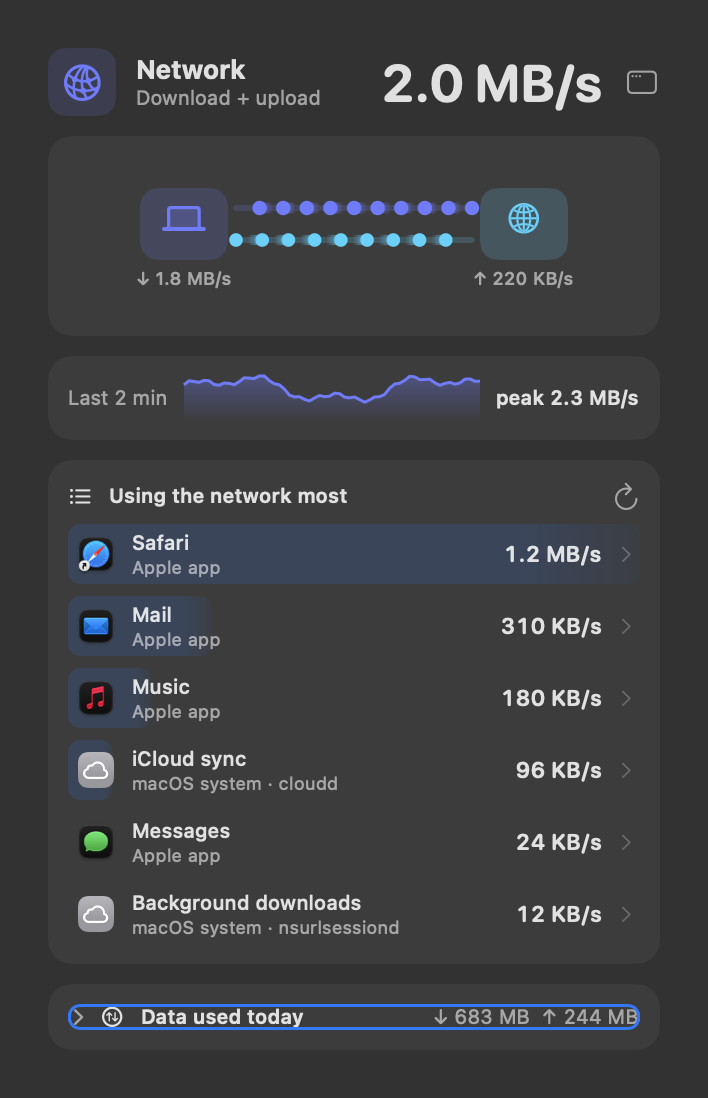
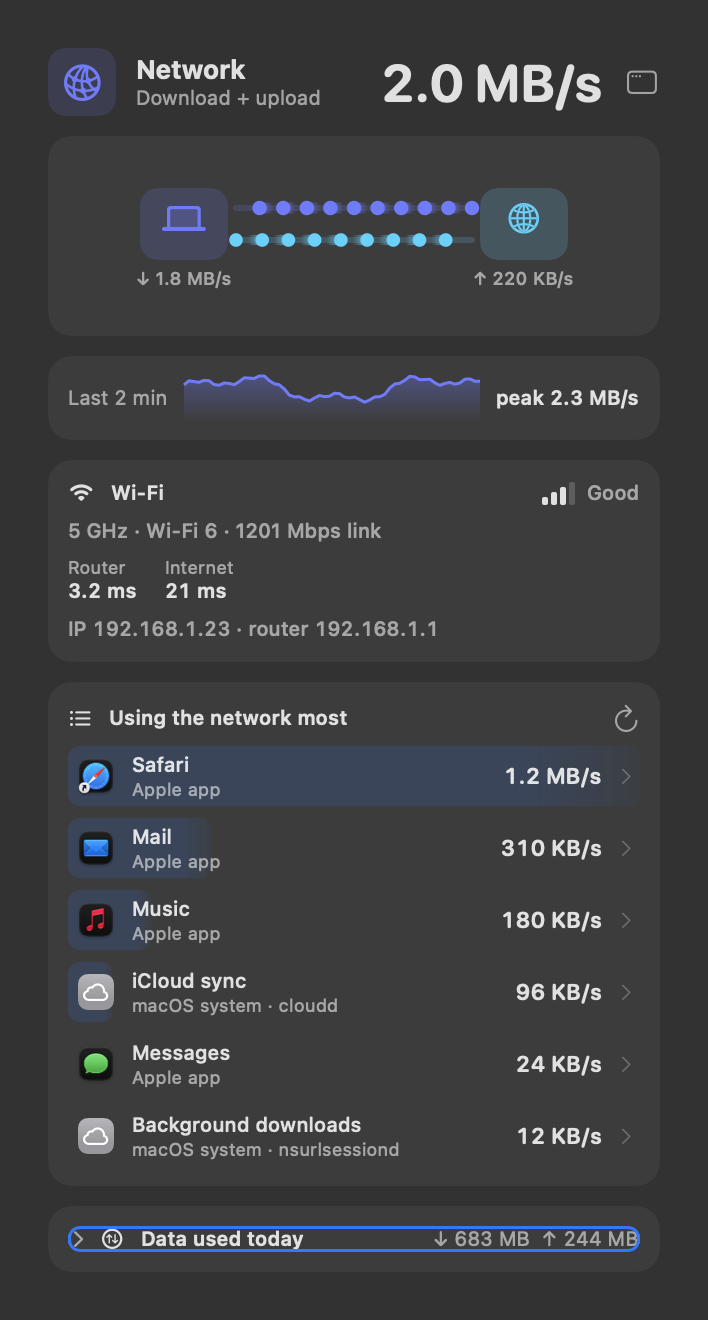
Sparewatt 1.18: changelog; Connection and internet check (Network section, notifications, feature index, panel guide); What Sparewatt runs and reads regenerated (both pings); Connection close-up and Network panel from demo renders

diff --git a/features/03 Temperature, network and storage space.md b/features/03 Temperature, network and storage space.md
@@ -47,7 +47,7 @@
 
 ## Network
 
-<p align="center"><img src="../images/features/panel-network.png" width="320" alt="Network"><br><em>Network panel: total speed · download and upload flow · 2-minute peak · apps using the network most · data used today.</em></p>
+<p align="center"><img src="../images/features/panel-network.png" width="320" alt="Network"><br><em>Network panel: total speed · download and upload flow · 2-minute peak · the connection · apps using the network most · data used today.</em></p>
 
 **Purpose.** See how much the Mac is downloading and uploading, and which app is doing it.
 
@@ -62,6 +62,51 @@ the network most* (per app, measured over one second; this list includes traffic
 
 **Where.** NET part of the menu bar (hidden by default — switch it on under Dashboard → Menu Bar →
 *Items*); Dashboard → **Network**.
+
+---
+
+## Connection and internet check
+
+<p align="center"><img src="../images/features/connection.png" width="354" alt="Connection"><br><em>The connection: Wi-Fi band, standard and link speed, signal, router and internet round trips, the address and the router. (Sample values.)</em></p>
+
+**Purpose.** Tell a weak Wi-Fi signal from a slow router from an internet outage, without opening Terminal.
+
+**What it does.** A *Connection* card in the Network panel shows:
+- what the Mac is connected through, named as System Settings names it: *Wi-Fi*, *iPhone USB*, a USB Ethernet
+  adapter, *Thunderbolt Bridge*, or *Not connected*;
+- for Wi-Fi: the signal in words with bars (excellent, good, fair, weak), the band (2.4, 5 or 6 GHz), the standard
+  (Wi-Fi 5, 6, 6E, 7) and the link speed the Mac and the router agreed on (this is not your internet speed);
+- the round trip to your **router** (a ping that stays on your own network);
+- the round trip to the **internet**, when the internet check is on;
+- the Mac's IP address and the router's;
+- a VPN that is connected, by its name;
+- a note when the network is a phone hotspot or metered, or when Low Data Mode is on.
+
+The dashboard's **Network** page adds the signal and noise in dBm, the channel and its width, the security, the
+interface name, IPv6 addresses, the DNS servers, and every VPN with whether it is connected.
+
+**Internet check** (off by default). Sparewatt sends one small ping to an address you choose (1.1.1.1 unless you change
+it) every 30 seconds, and every 5 seconds while a Sparewatt panel or the dashboard is open. If three checks in a row go
+unanswered while the Mac is connected to a network, you get **"The internet is down"**, dated from the first missed
+check. When it answers again you get **"The internet is back"**, with how long it was down. Checks made while the Mac
+has no network at all don't count, since macOS already shows that. The panel shows *down since 10:41* in red meanwhile.
+Turn it on, set the address and switch the notifications off in Dashboard → **Shelf, Profiles & Alerts** →
+*Internet check*.
+
+**Use cases.**
+- A video call breaks up: if the signal is *weak* or the router round trip is high, move closer or change band. If
+  the router is quick but the internet is slow or down, the problem is beyond your router.
+- At home, be told when the connection drops and how long the outage lasted.
+- Check that the VPN is actually connected before opening work systems.
+
+**Limits.** The Wi-Fi network's name isn't shown: macOS gives it only to apps allowed to use Location, and Sparewatt
+doesn't ask. Some routers don't answer pings; the router figure then reads *no answer* while everything else works.
+The internet check pings an IPv4 address only, so a name like `one.one.one.one` falls back to 1.1.1.1. The router ping
+and the connection reading happen only while a Sparewatt panel or the dashboard is open; with the internet check off,
+nothing is sent off your Mac.
+
+**Where.** Network panel (*Connection* card) and Dashboard → **Network**; settings in Dashboard → **Shelf, Profiles &
+Alerts** → *Internet check*.
 
 ---
 

diff --git a/guide/10 What Sparewatt runs and reads.md b/guide/10 What Sparewatt runs and reads.md
@@ -4,8 +4,10 @@ Everything Sparewatt starts, opens or asks for, in one list. The app shows the s
 
 ## The network
 
-**Nothing is sent anywhere. The only network requests are the optional update check and Switches' web-address checks.**
+**Nothing is sent anywhere. The only network requests are the optional update check, the optional internet check and Switches' web-address checks.**
 
+- **Internet check.** Off unless you turn it on (Shelf, Profiles & Alerts → Internet check). A ping (one small ICMP packet, sent by Sparewatt itself) to the address you set, 1.1.1.1 unless you change it, every 30 seconds, every 5 while a Sparewatt panel or the dashboard is open. Nothing else is in it.
+- **Router ping.** While a Sparewatt panel or the dashboard is open, a ping to your router every 5 seconds, for the Network panel's round trip. It stays on your own network.
 - **Update check.** Off unless you turn it on (Menu Bar → General). Once a day it asks GitHub for the latest version number.
 - **Switches' web-address checks.** Only for a Switch whose check is “a web address answers”: it asks that address — usually a server on your own Mac — every 10 seconds with a panel open, otherwise every minute.
 - **Switches' port checks.** A Switch checked by its port connects to that port on this Mac (127.0.0.1); nothing leaves the Mac.
@@ -32,7 +34,7 @@ All are part of macOS. None runs with more rights than you have, except `pmset` 
 | `ditto` | As you click Zip on the Shelf. | Makes the zip file. |
 | `osascript` | Only when macOS's notification center can't be used by Sparewatt. | Shows a plain notification banner instead. |
 
-Processor, memory, graphics, temperatures, fans, battery, charger, disk speed and what keeps the Mac awake are read straight from macOS (IOKit, the SMC sensors and system calls); no tool is started for them. The graphics chip's watts come from macOS's energy counters (IOReport), read only while a panel that shows them is open.
+Processor, memory, graphics, temperatures, fans, battery, charger, disk speed, what keeps the Mac awake and the network connection (Wi-Fi signal, addresses, router, VPN) are read straight from macOS (IOKit, the SMC sensors and system calls); no tool is started for them. The graphics chip's watts come from macOS's energy counters (IOReport), read only while a panel that shows them is open.
 
 The experimental Power by part card's *Calibrate* changes the screen brightness and the keyboard light and, only if you
 tick *Wi-Fi too*, turns Wi-Fi off and on. It puts everything back afterwards.

diff --git a/features/08 Alerts and notifications.md b/features/08 Alerts and notifications.md
@@ -11,6 +11,8 @@ normal. Every notification it sends is listed here.
 | **Unusual background activity** — "*name* (*kind*) is using 34% of the processor — usually 0.8%." | a background process far above its learned normal | once per episode | yes, by default | Dashboard → Menu Bar → *Alerts* (*…also when plugged in*) |
 | **Busy in the background** — "*app* has used about 18% of the processor for 10 minutes with no window on screen." | a hidden or windowless app busy for 10 minutes | once per episode | no | Dashboard → Shelf, Profiles & Alerts (on, 10%) |
 | **Keep awake is off** — "The battery is down to 9%, so your Mac can sleep again as usual." | [Keep awake](07%20Power%20controls.md#keep-awake) was on and the charge fell below 10% on battery | once each time it happens | yes | always on while Keep awake is on |
+| **The internet is down** — "No answer from 1.1.1.1 since 10:41, though the Mac is connected (Wi-Fi)…" | the [internet check](03%20Temperature%2C%20network%20and%20storage%20space.md#connection-and-internet-check) went unanswered three times in a row while a network was connected | once per outage | no | Dashboard → Shelf, Profiles & Alerts → *Internet check* (**off**; notifications on once it is on) |
+| **The internet is back** — "It was down for about 12m." | the first answer after an outage | once per outage | no | as above |
 | **Battery state doesn't add up** | charge state and measured current disagree for a minute | once per episode | no | always on |
 | **Storage almost full** — "Only 18 GB free (your limit is 20 GB)…" | free space below the limit | once, re-armed when space recovers | no | Dashboard → Shelf, Profiles & Alerts (20 GB) |
 | **On battery: *app*** — "*app* is using 45% processor (limit 30%)" | a Watchlist rule is exceeded | not repeated within the quiet period (10 min) | per rule | Dashboard → **Watchlist** |

diff --git a/features/README.md b/features/README.md
@@ -31,6 +31,7 @@ answers three questions from the menu bar:
 | Memory panel and forecast | know whether memory is the bottleneck | pressure and swap, warned before slowdowns | [Processor, graphics and memory](02%20Processor%2C%20graphics%20and%20memory.md#memory-panel) |
 | Temperature and fans | how hot each part is | plain verdicts, no made-up zeros | [Temperature, network and storage space](03%20Temperature%2C%20network%20and%20storage%20space.md) |
 | Network | who downloads and uploads | catches background transfers | [Temperature, network and storage space](03%20Temperature%2C%20network%20and%20storage%20space.md#network) |
+| Connection and internet check | Wi-Fi signal, router and internet round trips, IP, VPN; told when the internet drops | weak Wi-Fi, slow router or outage, told apart | [Temperature, network and storage space](03%20Temperature%2C%20network%20and%20storage%20space.md#connection-and-internet-check) |
 | Data used per app | internet data today and this week, per app | a hotspot or capped plan under control | [Temperature, network and storage space](03%20Temperature%2C%20network%20and%20storage%20space.md#data-used-per-app) |
 | Storage space, drive health, Time Machine | where the space went, and whether it is safe | purgeable space explained; a failing drive or old backup flagged | [Temperature, network and storage space](03%20Temperature%2C%20network%20and%20storage%20space.md#storage-space) |
 | "Using the most" lists | name the apps behind every number | plain words for cryptic processes | [Who is using it](04%20Who%20is%20using%20it.md) |

diff --git a/CHANGELOG.md b/CHANGELOG.md
@@ -2,6 +2,21 @@
 
 What changed in Sparewatt, newest first, in plain words. Dates are when the change was made.
 
+## 2026-11-21 — Sparewatt 1.18
+
+Released as [Sparewatt 1.18](https://github.com/MShirazAhmad/Sparewatt-docs/releases/tag/v1.18-2026-11-21).
+
+- **Connection:** a new card in the Network panel. It shows what the Mac is connected through (Wi-Fi, iPhone USB, an
+  Ethernet adapter), the Wi-Fi signal in words with bars, the band, standard and link speed, the round trip to your
+  router, the IP address and router, a connected VPN by name, and a note on hotspots and Low Data Mode. The Network page
+  adds the signal and noise in dBm, the channel, security, IPv6, DNS servers and every VPN
+  ([more](features/03%20Temperature%2C%20network%20and%20storage%20space.md#connection-and-internet-check)).
+- **Internet check** (off by default): a ping to an address you choose (1.1.1.1) every 30 seconds, with the round trip
+  in the panel, **"The internet is down"** after three missed checks while a network is connected, and **"The internet
+  is back"** with how long it lasted. Dashboard → Shelf, Profiles & Alerts → *Internet check*.
+- The **Privacy** page lists both pings: the internet check (off unless you turn it on) and the router ping, which
+  stays on your own network.
+
 ## 2026-11-21 — Sparewatt 1.17
 
 Released as [Sparewatt 1.17](https://github.com/MShirazAhmad/Sparewatt-docs/releases/tag/v1.17-2026-11-21).

diff --git a/README.md b/README.md
@@ -69,7 +69,7 @@ catalogue and everyday scenarios ("a full day on battery", "the battery drops ov
 |---|---|
 | Menu bar: readings, grouped item with outline, hover panels, steadier figures, colours, warnings, the Menu Bar settings page | [Menu bar](features/01%20Menu%20bar.md) |
 | Processor, graphics, memory | [Processor, graphics and memory](features/02%20Processor%2C%20graphics%20and%20memory.md) |
-| Temperature and fans, slowing down to cool, network, data used per app, storage space, drive health, Time Machine | [Temperature, network and storage space](features/03%20Temperature%2C%20network%20and%20storage%20space.md) |
+| Temperature and fans, slowing down to cool, network, the connection and internet check, data used per app, storage space, drive health, Time Machine | [Temperature, network and storage space](features/03%20Temperature%2C%20network%20and%20storage%20space.md) |
 | Named processes, quitting, background normals, Watchlist | [Who is using it](features/04%20Who%20is%20using%20it.md) |
 | Battery state, charge plan, wear, what keeps the Mac awake, overnight drain, keyboard / mouse / headphones / game controller batteries with time left, Macs without a battery | [Battery](features/05%20Battery.md) |
 | Power flow, charger details and history, USB power out, power per app, idle apps | [Power](features/06%20Power.md) |
